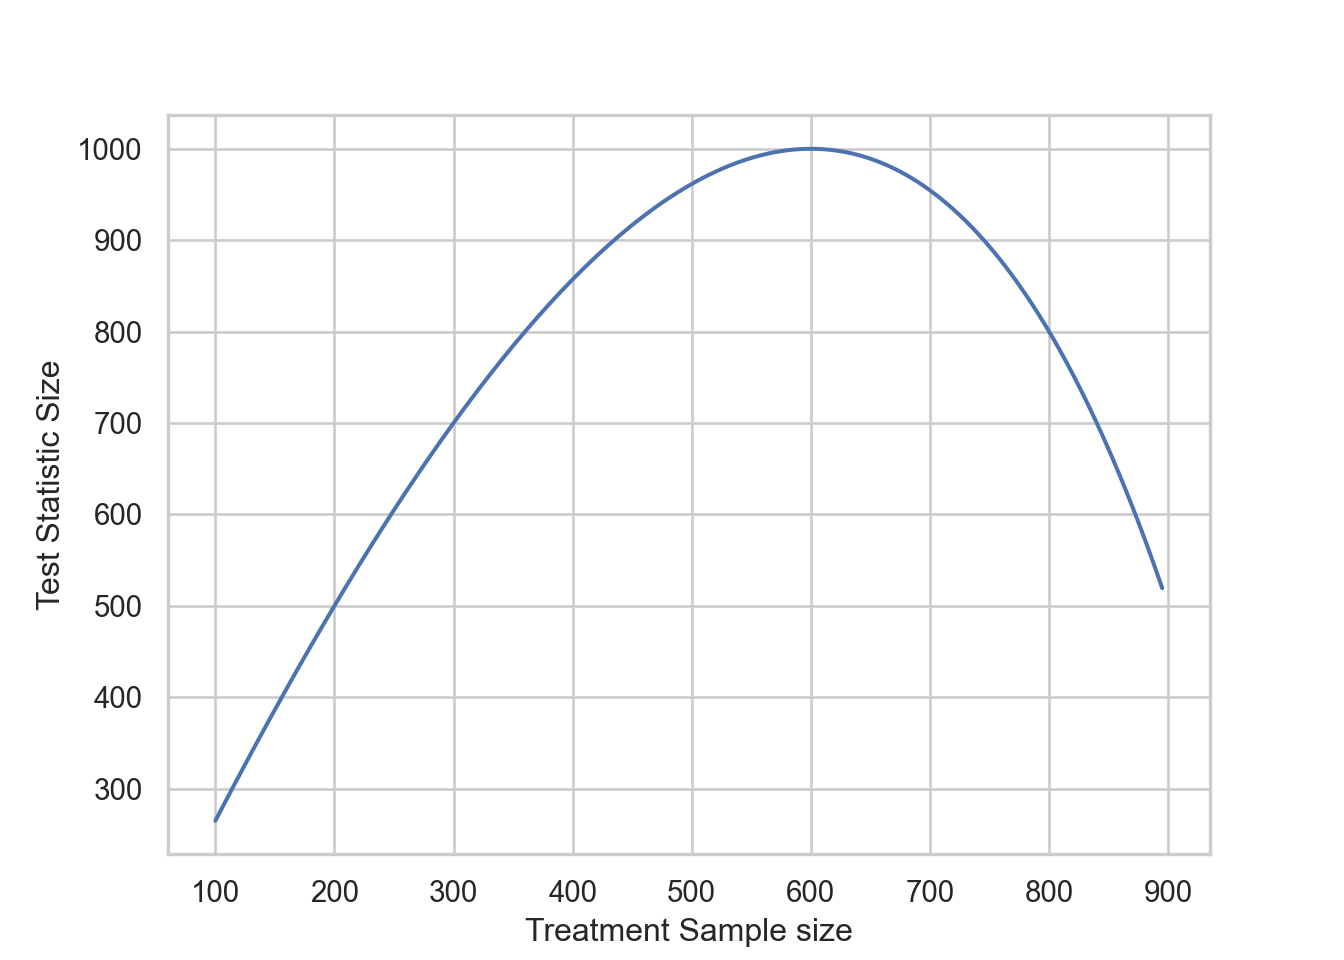
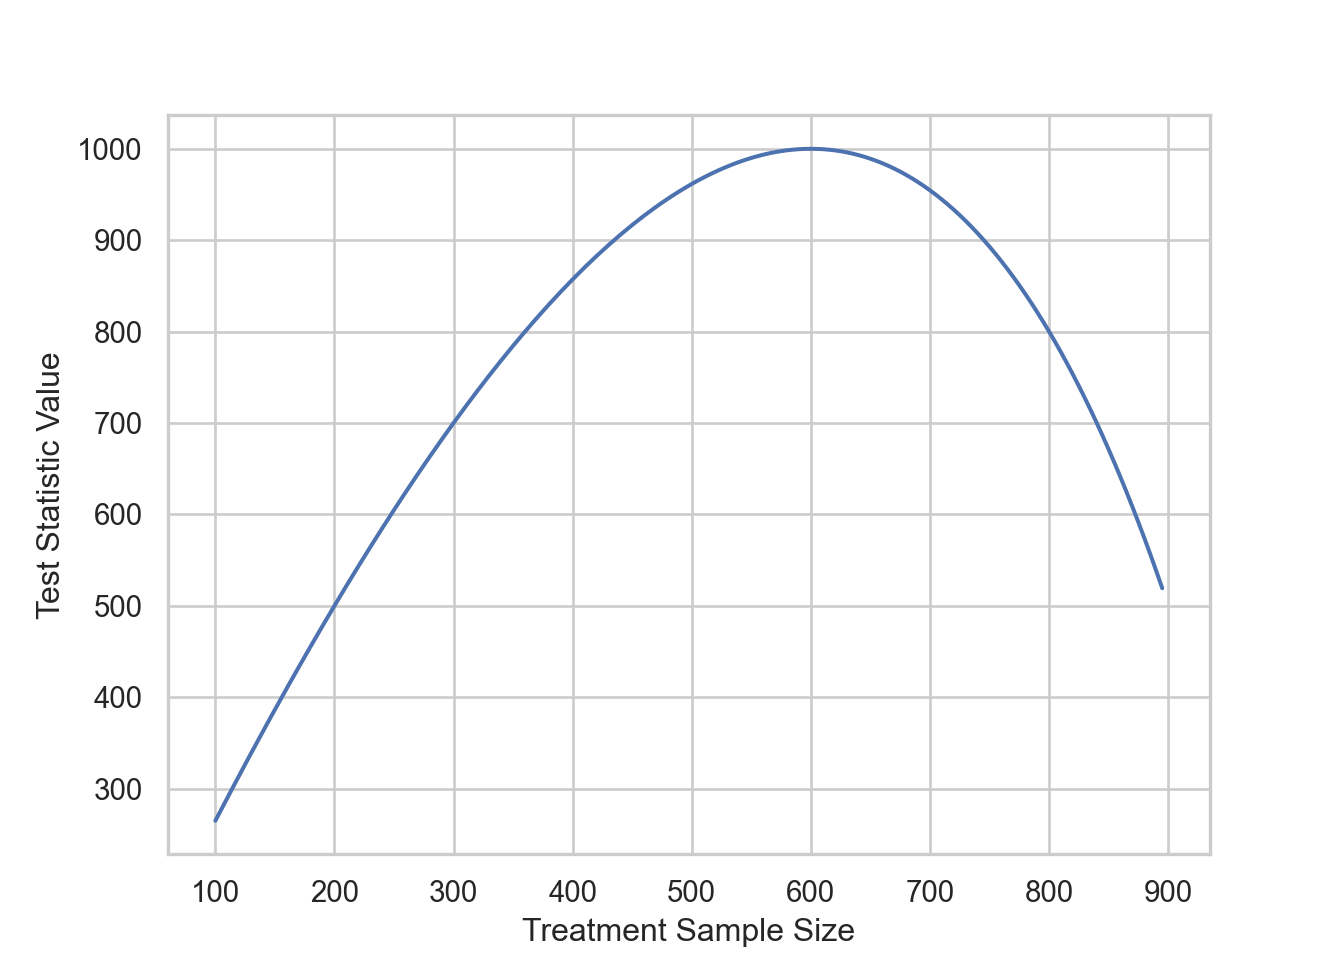
deploy: jModeler/website_source@534dc65353ee65032476bc5e057589c16b0c681f

Changed region(s): [[0.4062, 0.9375, 0.625, 1.0], [0.0312, 0.375, 0.0625, 0.625]]

diff --git a/posts/2025-04-26-sample-size-and-effect-size/index.html b/posts/2025-04-26-sample-size-and-effect-size/index.html
@@ -54,8 +54,8 @@ Setup Link to heading Let’s say the responses in the control sample are \(X_i 
 </span></span><span class=line><span class=cl><span class=n>sns</span><span class=o>.</span><span class=n>lineplot</span><span class=p>(</span><span class=n>x</span><span class=o>=</span><span class=n>ny</span><span class=p>,</span> <span class=n>y</span><span class=o>=</span><span class=n>t</span><span class=p>)</span>
 </span></span><span class=line><span class=cl>
 </span></span><span class=line><span class=cl><span class=c1># label the axes</span>
-</span></span><span class=line><span class=cl><span class=n>plt</span><span class=o>.</span><span class=n>xlabel</span><span class=p>(</span><span class=s2>&#34;Treatment Sample size&#34;</span><span class=p>)</span>
-</span></span><span class=line><span class=cl><span class=n>plt</span><span class=o>.</span><span class=n>ylabel</span><span class=p>(</span><span class=s2>&#34;Test Statistic Size&#34;</span><span class=p>)</span>
+</span></span><span class=line><span class=cl><span class=n>plt</span><span class=o>.</span><span class=n>xlabel</span><span class=p>(</span><span class=s2>&#34;Treatment Sample Size&#34;</span><span class=p>)</span>
+</span></span><span class=line><span class=cl><span class=n>plt</span><span class=o>.</span><span class=n>ylabel</span><span class=p>(</span><span class=s2>&#34;Test Statistic Value&#34;</span><span class=p>)</span>
 </span></span><span class=line><span class=cl>
 </span></span><span class=line><span class=cl><span class=n>plt</span><span class=o>.</span><span class=n>show</span><span class=p>()</span>
 </span></span></code></pre></div><img src=http://jmodeler.github.io/posts/2025-04-26-sample-size-and-effect-size/index.en_files/figure-html/unnamed-chunk-1-1.png width=672><p>Note that for the values specified above the test statistic is maximized when <code>\(n_Y = 600\)</code>, which is <code>\(\frac{N\sigma_Y}{\sigma_Y + \sigma_X} = \frac{1000*3}{3+2} = 600\)</code></p></div><footer></footer></article><link rel=stylesheet href=https://cdn.jsdelivr.net/npm/katex@0.16.4/dist/katex.min.css integrity=sha384-vKruj+a13U8yHIkAyGgK1J3ArTLzrFGBbBc0tDp4ad/EyewESeXE/Iv67Aj8gKZ0 crossorigin=anonymous><script defer src=https://cdn.jsdelivr.net/npm/katex@0.16.4/dist/katex.min.js integrity=sha384-PwRUT/YqbnEjkZO0zZxNqcxACrXe+j766U2amXcgMg5457rve2Y7I6ZJSm2A0mS4 crossorigin=anonymous></script><script defer src=https://cdn.jsdelivr.net/npm/katex@0.16.4/dist/contrib/auto-render.min.js integrity=sha384-+VBxd3r6XgURycqtZ117nYw44OOcIax56Z4dCRWbxyPt0Koah1uHoK0o4+/RRE05 crossorigin=anonymous onload='renderMathInElement(document.body,{delimiters:[{left:"$$",right:"$$",display:!0},{left:"$",right:"$",display:!1},{left:"\\(",right:"\\)",display:!1},{left:"\\[",right:"\\]",display:!0}]})'></script></section></div><footer class=footer><section class=container>©
